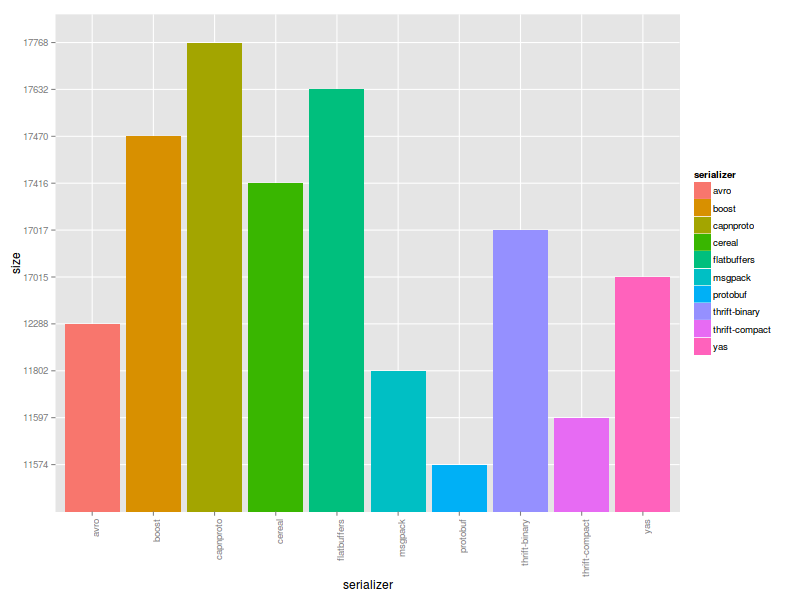
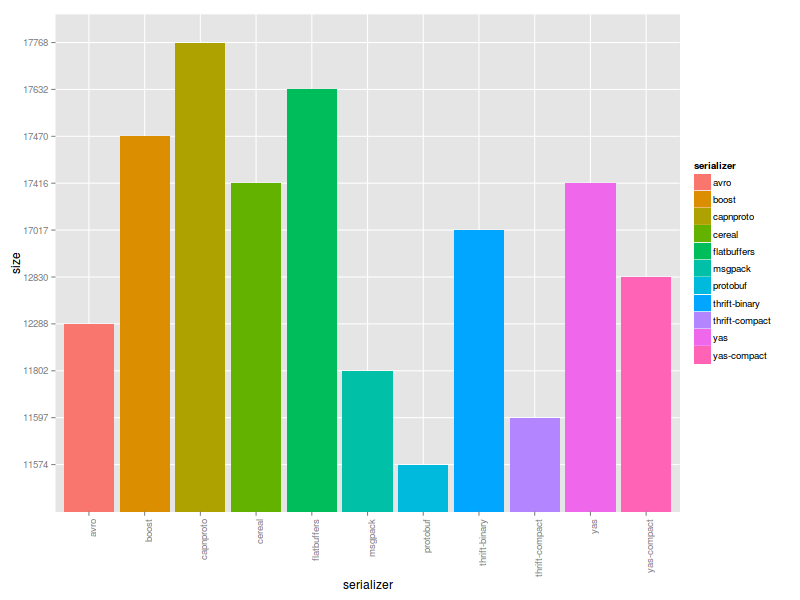
compacted mode implemented in YAS & some optimisations in YAS & for tests ubuntu-14.04.3 + gcc-6.2.1 is used & graphs regenerated

diff --git a/benchmark.cpp b/benchmark.cpp
@@ -471,6 +471,7 @@ flatbuffers_serialization_test(size_t iterations)
     std::cout << "flatbuffers: time = " << duration << " milliseconds" << std::endl << std::endl;
 }
 
+template<std::size_t opts>
 void
 yas_serialization_test(size_t iterations)
 {
@@ -488,30 +489,39 @@ yas_serialization_test(size_t iterations)
 
     std::string serialized;
 
-    to_string(r1, serialized);
-    from_string(r2, serialized);
+    to_string<opts>(r1, serialized);
+    from_string<opts>(r2, serialized);
 
     if (r1 != r2) {
         throw std::logic_error("yas' case: deserialization failed");
     }
 
-    std::cout << "yas: version = " << YAS_VERSION_STRING << std::endl;
-    std::cout << "yas: size = " << serialized.size() << " bytes" << std::endl;
+    if ( opts & yas::compacted ) {
+        std::cout << "yas-compact: version = " << YAS_VERSION_STRING << std::endl;
+        std::cout << "yas-compact: size = " << serialized.size() << " bytes" << std::endl;
+    } else {
+        std::cout << "yas: version = " << YAS_VERSION_STRING << std::endl;
+        std::cout << "yas: size = " << serialized.size() << " bytes" << std::endl;
+    }
     
     auto start = std::chrono::high_resolution_clock::now();
     for (size_t i = 0; i < iterations; i++) {
         yas::mem_ostream os;
-        yas::binary_oarchive<yas::mem_ostream, flags> oa(os);
+        yas::binary_oarchive<yas::mem_ostream, opts> oa(os);
         oa & r1;
 
         yas::mem_istream is(os.get_intrusive_buffer());
-        yas::binary_iarchive<yas::mem_istream, flags> ia(is);
+        yas::binary_iarchive<yas::mem_istream, opts> ia(is);
         ia & r2;
     }
     auto finish = std::chrono::high_resolution_clock::now();
     auto duration = std::chrono::duration_cast<std::chrono::milliseconds>(finish - start).count();
 
-    std::cout << "yas: time = " << duration << " milliseconds" << std::endl << std::endl;
+    if ( opts & yas::compacted ) {
+        std::cout << "yas-compact: time = " << duration << " milliseconds" << std::endl << std::endl;
+    } else {
+        std::cout << "yas: time = " << duration << " milliseconds" << std::endl << std::endl;
+    }
 }
 
 int
@@ -520,7 +530,7 @@ main(int argc, char **argv)
     GOOGLE_PROTOBUF_VERIFY_VERSION;
 
     if (argc < 2) {
-        std::cout << "usage: " << argv[0] << " N [thrift-binary thrift-compact protobuf boost msgpack cereal avro capnproto flatbuffers yas]";
+        std::cout << "usage: " << argv[0] << " N [thrift-binary thrift-compact protobuf boost msgpack cereal avro capnproto flatbuffers yas yas-compact]";
         std::cout << std::endl << std::endl;
         std::cout << "arguments: " << std::endl;
         std::cout << " N  -- number of iterations" << std::endl << std::endl;
@@ -585,8 +595,13 @@ main(int argc, char **argv)
         if (names.empty() || names.find("flatbuffers") != names.end()) {
             flatbuffers_serialization_test(iterations);
         }
+
         if (names.empty() || names.find("yas") != names.end()) {
-            yas_serialization_test(iterations);
+            yas_serialization_test<yas::binary|yas::no_header>(iterations);
+        }
+        
+        if (names.empty() || names.find("yas-compact") != names.end()) {
+            yas_serialization_test<yas::binary|yas::no_header|yas::compacted>(iterations);
         }
     } catch (std::exception &exc) {
         std::cerr << "Error: " << exc.what() << std::endl;

diff --git a/yas/record.hpp b/yas/record.hpp
@@ -14,8 +14,6 @@
 
 namespace yas_test {
 
-enum { flags = yas::binary|yas::no_header|yas::seq_size_32 };
-
 typedef std::vector<int64_t>     Integers;
 typedef std::vector<std::string> Strings;
 
@@ -39,8 +37,22 @@ struct Record {
     }
 };
 
-void to_string(const Record &record, std::string &data);
-void from_string(Record &record, const std::string &data);
+template<std::size_t opts>
+void to_string(const Record &record, std::string &data) {
+    yas::mem_ostream os;
+    yas::binary_oarchive<yas::mem_ostream, opts> oa(os);
+    oa & record;
+    
+    auto buf = os.get_intrusive_buffer();
+    data.assign(buf.data, buf.size);
+}
+
+template<std::size_t opts>
+void from_string(Record &record, const std::string &data) {
+    yas::mem_istream is(data.c_str(), data.size());
+    yas::binary_iarchive<yas::mem_istream, opts> ia(is);
+    ia & record;
+}
 
 } // namespace
 

diff --git a/yas/record.cpp b/yas/record.cpp
@@ -3,23 +3,4 @@
 
 namespace yas_test {
 
-void
-to_string(const Record &record, std::string &data)
-{
-    yas::mem_ostream os;
-    yas::binary_oarchive<yas::mem_ostream, flags> oa(os);
-    oa & record;
-
-    auto buf = os.get_intrusive_buffer();
-    data.assign(buf.data, buf.size);
-}
-
-void
-from_string(Record &record, const std::string &data)
-{
-    yas::mem_istream is(data.c_str(), data.size());
-    yas::binary_iarchive<yas::mem_istream, flags> ia(is);
-    ia & record;
-}
-
 } // namespace

diff --git a/README.md b/README.md
@@ -52,18 +52,19 @@ on a typical desktop computer with Intel Core i5 processor running Ubuntu 14.04.
 * avro 1.8.1
 * capnproto 0.5.3
 * flatbuffers 1.4.0
-* YAS 3.0.0
+* YAS 4.0.0
 
 | serializer     | object's size | avg. total time |
 | -------------- | ------------- | --------------- |
-| thrift-binary  | 17017         | 13763           |
-| thrift-compact | 11597         | 27017           |
+| thrift-binary  | 17017         | 22815           |
+| thrift-compact | 11597         | 26427           |
 | protobuf       | 12571         | 21034           |
-| boost          | 17470         | 22945           |
-| msgpack        | 11902         | 23560           |
-| cereal         | 17416         | 10688           |
-| avro           | 12288         | 31750           |
-| YAS            | 17015         | 4945            |
+| boost          | 17470         | 22471           |
+| msgpack        | 11902         | 25931           |
+| cereal         | 17416         | 10304           |
+| avro           | 12288         | 31658           |
+| yas            | 17416         | 4044            |
+| yas-compact    | 12830         | 21928           |
 
 ###### Size
 
@@ -79,8 +80,8 @@ serialize/deserialize cycle of the already built data structure.
 
 | serializer     | object's size | avg. total time |
 | -------------- | ------------- | --------------- |
-| capnproto      | 17768         | 4396            |
-| flatbuffers    | 17632         | 12494           |
+| capnproto      | 17768         | 4259            |
+| flatbuffers    | 17632         | 12762           |
 
 ![Time](images/time2.png)
 
